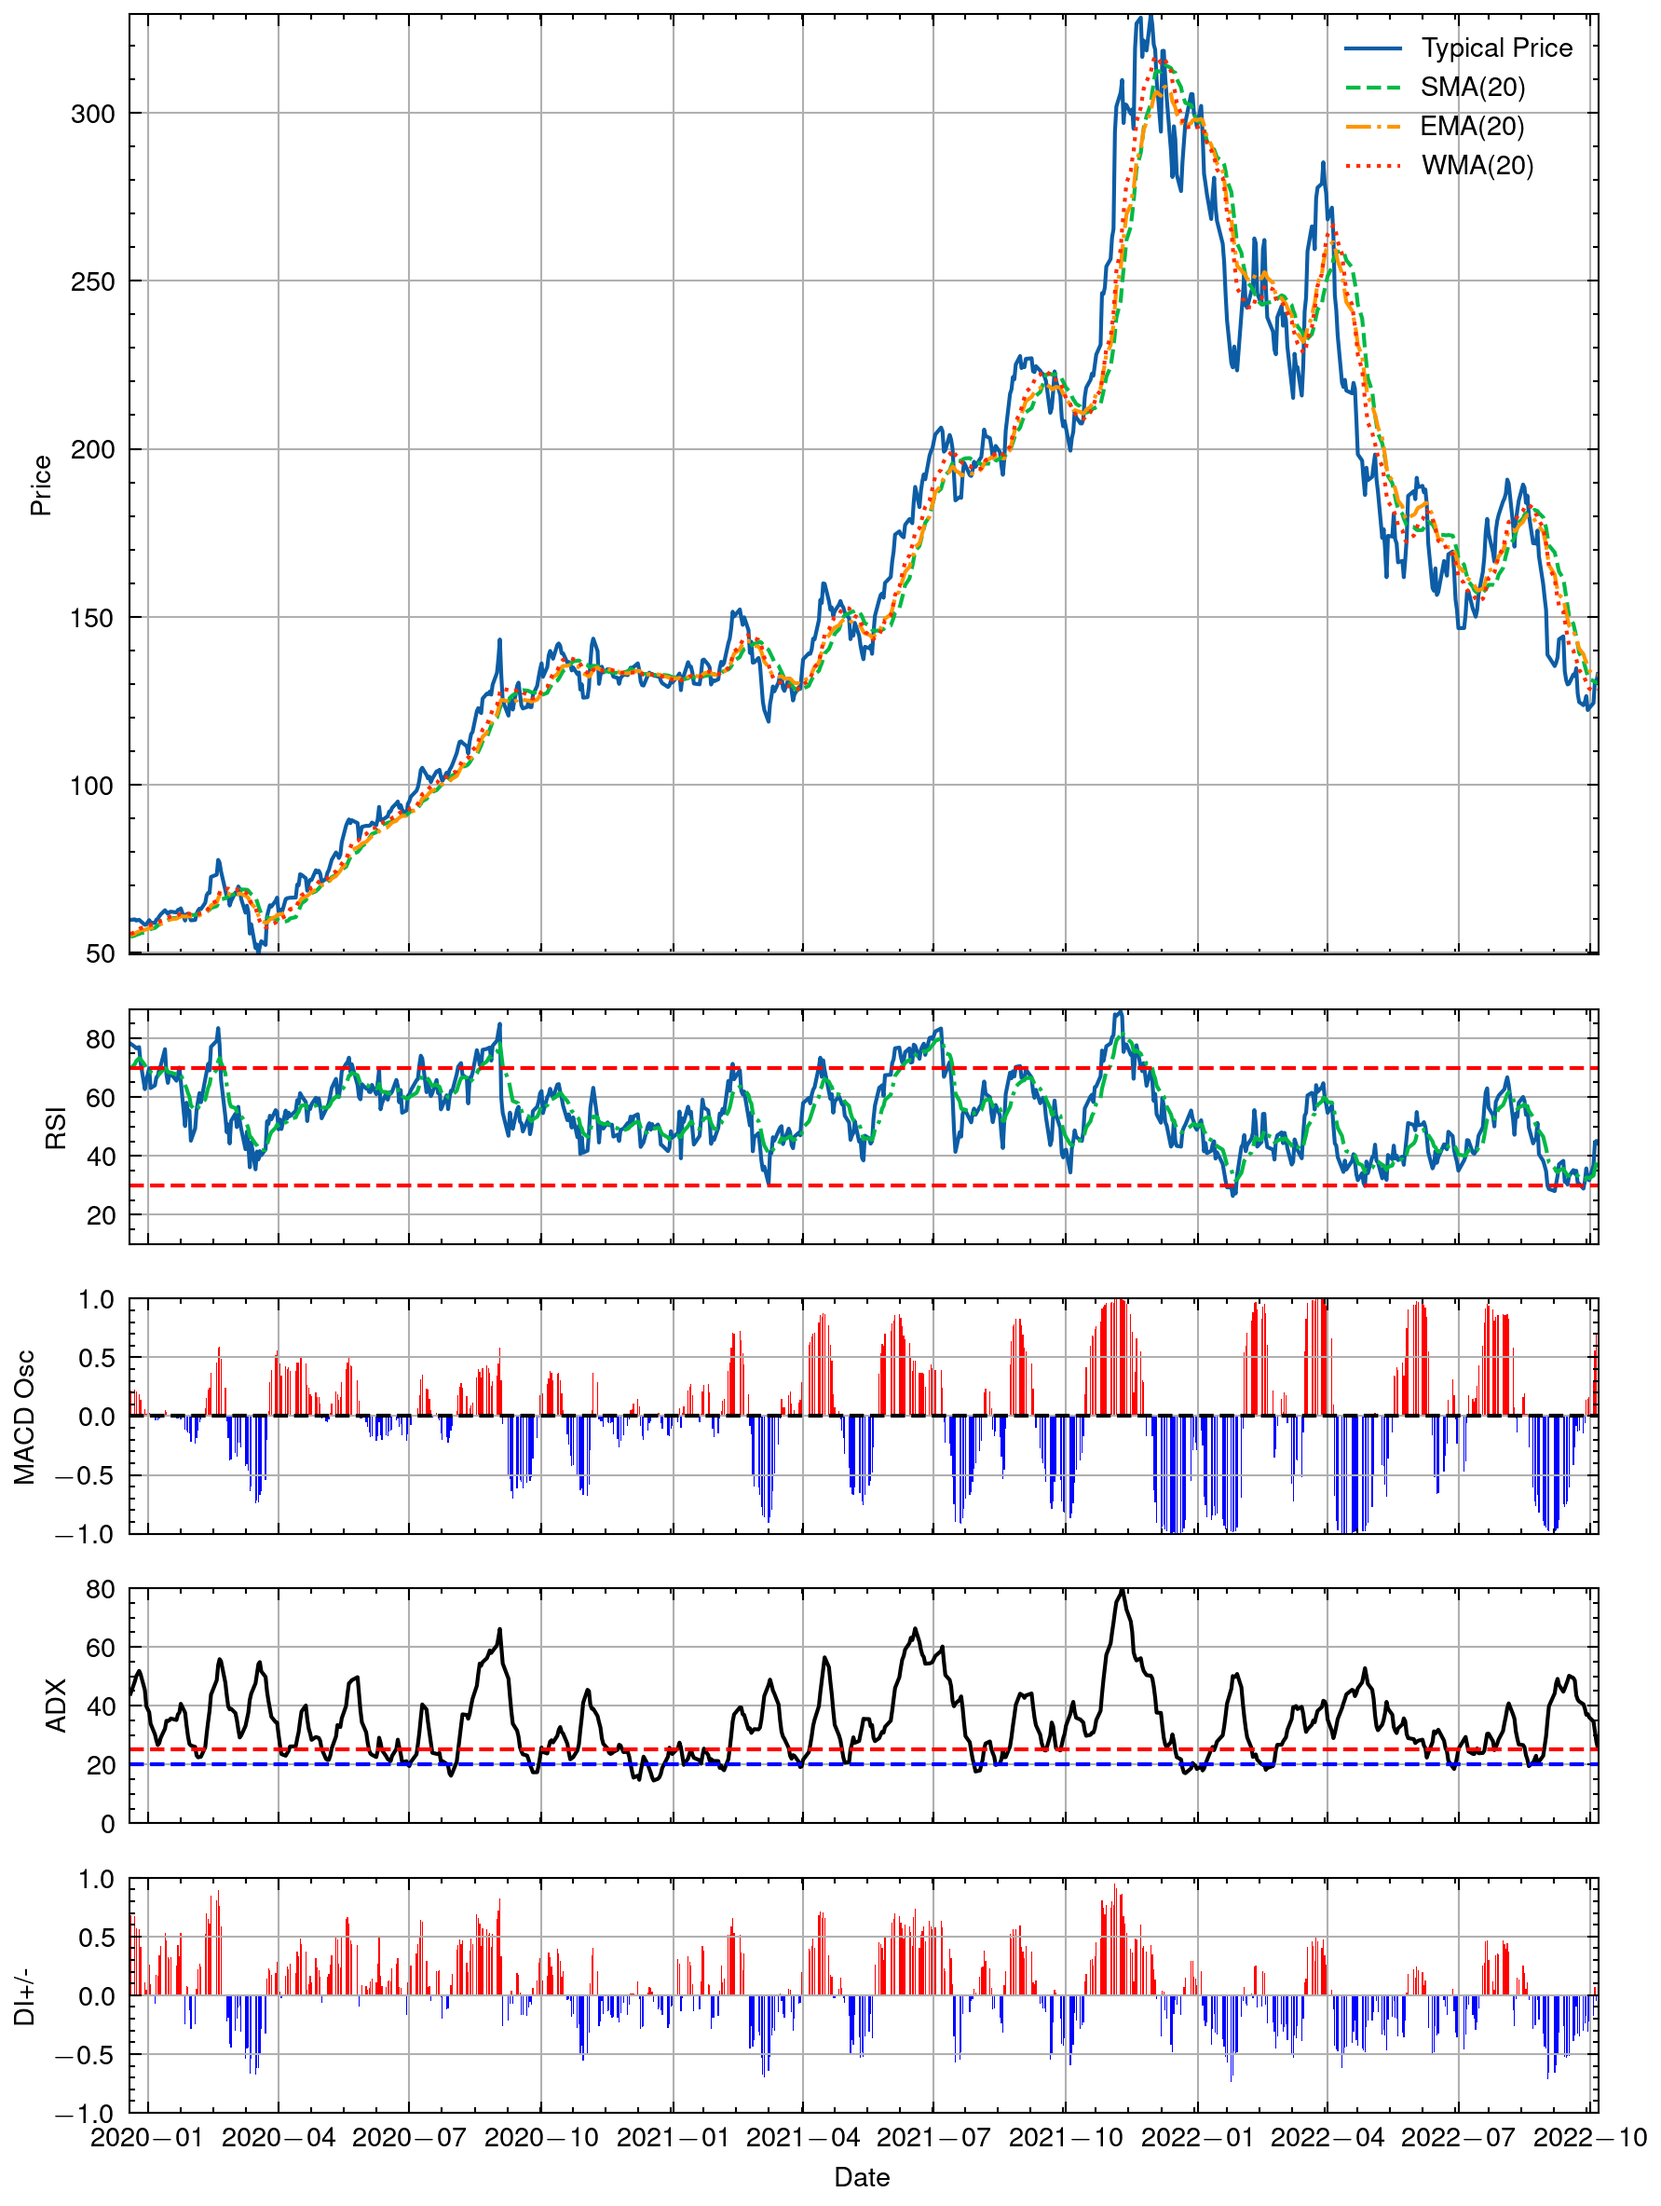
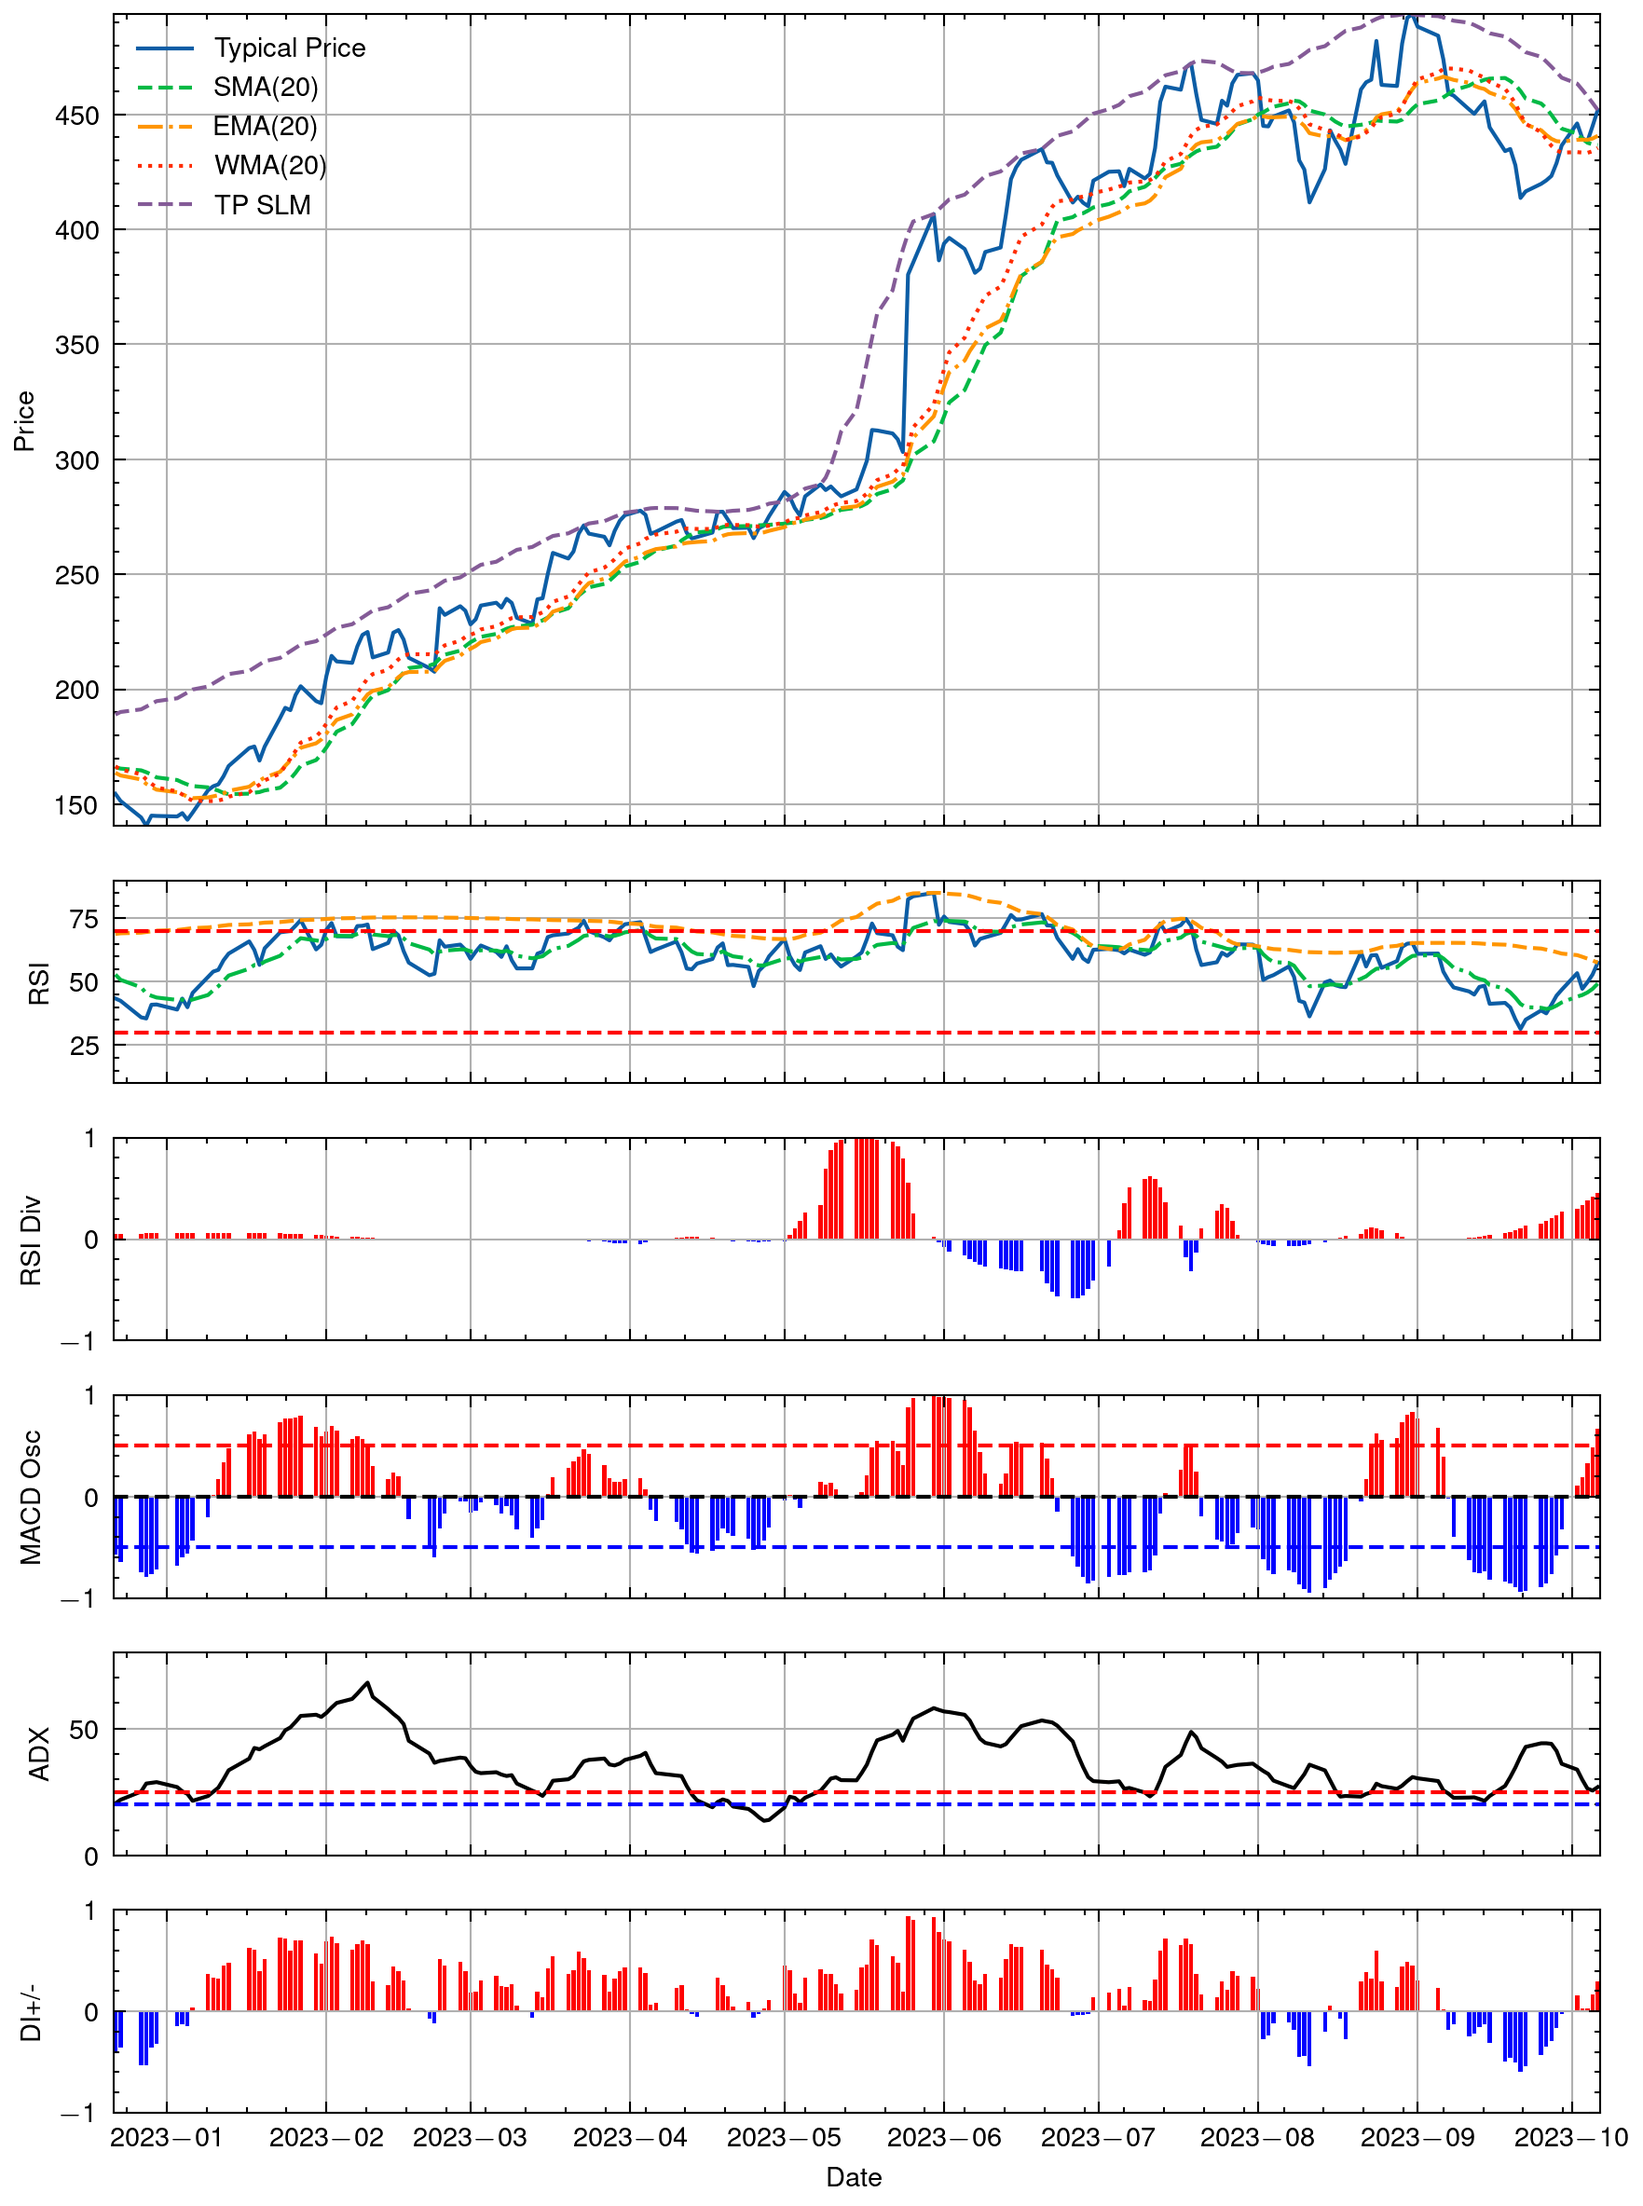
Implement Divergence

diff --git a/script/ta_plot.py b/script/ta_plot.py
@@ -17,11 +17,15 @@ df = pd.read_parquet(f'data/{symbol}.parquet')
 x = df['date'] # str
 x = pd.to_datetime(x) # datetime
 tp = df['tp']
+tp_div = df['tp_div']
+tp_slope = df['tp_slope']
 sma = df['sma']
 ema = df['ema']
 wma = df['wma']
 rsi = df['rsi']
 rsi_signal = df['rsi_signal']
+rsi_div = df['rsi_div']
+rsi_slope = df['rsi_slope']
 macd = df['macd']
 macd_signal = df['macd_signal']
 adx = df['adx']
@@ -33,12 +37,13 @@ d = df['d']
 
 # Plot
 with plt.style.context(["science", "nature"]):
-    fig, axs = plt.subplots(5, 1, figsize=(6, 8), sharex=True, gridspec_kw={'height_ratios': [4, 1, 1, 1, 1]})
+    fig, axs = plt.subplots(6, 1, figsize=(6, 8), sharex=True, gridspec_kw={'height_ratios': [4, 1, 1, 1, 1, 1]})
     axs[0].autoscale(tight=True)
     axs[0].plot(x, tp, label='Typical Price')
     axs[0].plot(x, sma, '--', label='SMA(20)')
     axs[0].plot(x, ema, '-.', label='EMA(20)')
     axs[0].plot(x, wma, ':', label='WMA(20)')
+    axs[0].plot(x, tp_div, '--', label='TP SLM')
     # Tick angle
     plt.setp(axs[0].get_xticklabels(), rotation=30, horizontalalignment='right')
     axs[0].legend()
@@ -48,6 +53,7 @@ with plt.style.context(["science", "nature"]):
     axs[1].autoscale(tight=True)
     axs[1].plot(x, rsi)
     axs[1].plot(x, rsi_signal, '-.')
+    axs[1].plot(x, rsi_div, '--')
     axs[1].axhline(y=30, color='r', linestyle='--')
     axs[1].axhline(y=70, color='r', linestyle='--')
     axs[1].set_ylabel("RSI")
@@ -55,50 +61,64 @@ with plt.style.context(["science", "nature"]):
     axs[1].grid(True)
 
     axs[2].autoscale(tight=True)
-    #axs[2].plot(x, macd)
-    #axs[2].plot(x, macd_signal, '-.')
-    axs[2].axhline(y=0, color='k', linestyle='--')
-    # Histogram for MACD
-    macd_up = np.tanh(np.array(macd - macd_signal) / np.max(macd_signal) * 10)
-    macd_up[macd_up < 0] = np.nan
-    macd_down = np.tanh(np.array(macd - macd_signal) / np.max(macd_signal) * 10)
-    macd_down[macd_down > 0] = np.nan
+    rsi_slope = np.tanh(np.array(rsi_slope) * np.array(tp_slope) / np.max(tp_slope) * 2)
+    rsi_slope_up = np.array(rsi_slope)
+    rsi_slope_up[rsi_slope_up < 0] = np.nan
+    rsi_slope_down = np.array(rsi_slope)
+    rsi_slope_down[rsi_slope_down > 0] = np.nan
+    axs[2].bar(x, rsi_slope_up, color='r', width=0.8)
+    axs[2].bar(x, rsi_slope_down, color='b', width=0.8)
     axs[2].set_ylim([-1, 1])
-    axs[2].bar(x, macd_up, color='r', width=0.8)
-    axs[2].bar(x, macd_down, color='b', width=0.8)
-    axs[2].set_ylabel("MACD Osc")
+    axs[2].set_ylabel("RSI Div")
     axs[2].grid(True)
 
     axs[3].autoscale(tight=True)
-    axs[3].plot(x, adx, 'k')
-    axs[3].axhline(y=20, color='b', linestyle='--')
-    axs[3].axhline(y=25, color='r', linestyle='--')
-    axs[3].set_ylabel("ADX")
-    axs[3].set_ylim([0, 80])
+    #axs[3].plot(x, macd)
+    #axs[3].plot(x, macd_signal, '-.')
+    axs[3].axhline(y=0, color='k', linestyle='--')
+    # Histogram for MACD
+    macd_up = np.tanh(np.array(macd - macd_signal) / np.max(macd_signal) * 7.5)
+    macd_up[macd_up < 0] = np.nan
+    macd_down = np.tanh(np.array(macd - macd_signal) / np.max(macd_signal) * 7.5)
+    macd_down[macd_down > 0] = np.nan
+    axs[3].set_ylim([-1, 1])
+    axs[3].bar(x, macd_up, color='r', width=0.8)
+    axs[3].bar(x, macd_down, color='b', width=0.8)
+    axs[3].axhline(y=0.5, color='r', linestyle='--')
+    axs[3].axhline(y=-0.5, color='b', linestyle='--')
+    axs[3].set_ylabel("MACD Osc")
     axs[3].grid(True)
 
     axs[4].autoscale(tight=True)
+    axs[4].plot(x, adx, 'k')
+    axs[4].axhline(y=20, color='b', linestyle='--')
+    axs[4].axhline(y=25, color='r', linestyle='--')
+    axs[4].set_ylabel("ADX")
+    axs[4].set_ylim([0, 80])
+    axs[4].grid(True)
+
+    axs[5].autoscale(tight=True)
     di_up = np.tanh(np.array(di_plus - di_minus) / 50)
     di_up[di_up < 0] = np.nan
     di_down = np.tanh(np.array(di_plus - di_minus) / 50)
     di_down[di_down > 0] = np.nan
-    axs[4].bar(x, di_up, color='r', width=0.8)
-    axs[4].bar(x, di_down, color='b', width=0.8)
-    axs[4].set_ylim([-1, 1])
-    axs[4].set_xlabel("Date")
-    axs[4].set_ylabel("DI+/-")
-    axs[4].grid(True)
+    axs[5].bar(x, di_up, color='r', width=0.8)
+    axs[5].bar(x, di_down, color='b', width=0.8)
+    axs[5].set_ylim([-1, 1])
+    axs[5].set_xlabel("Date")
+    axs[5].set_ylabel("DI+/-")
+    axs[5].grid(True)
 
-    #axs[5].autoscale(tight=True)
-    #axs[5].plot(x, k, label='\%K')
-    #axs[5].plot(x, d, label='\%D')
-    #axs[5].axhline(y=20, color='b', linestyle='--')
-    #axs[5].axhline(y=80, color='r', linestyle='--')
-    #axs[5].legend()
-    #axs[5].set_xlabel("Date")
-    #axs[5].set_ylabel("Stochastic")
-    #axs[5].set_ylim([0, 100])
-    #axs[5].grid(True)
+    #axs[6].autoscale(tight=True)
+    #axs[6].plot(x, k, label='\%K')
+    #axs[6].plot(x, d, label='\%D')
+    #axs[6].axhline(y=20, color='b', linestyle='--')
+    #axs[6].axhline(y=80, color='r', linestyle='--')
+    #axs[6].legend()
+    #axs[6].set_xlabel("Date")
+    #axs[6].set_ylabel("Stochastic")
+    #axs[6].set_ylim([0, 100])
+    #axs[6].grid(True)
 
     fig.tight_layout()
     fig.savefig(f'figs/{symbol}.png', dpi=300, bbox_inches='tight')

diff --git a/src/main.rs b/src/main.rs
@@ -1,6 +1,6 @@
 use peroxide::fuga::*;
 use fmp::api::HistoricalPriceFull;
-use fmp::ta::{sma, ema, wma, rsi, macd, adx_dmi, stochastic};
+use fmp::ta::{sma, ema, wma, rsi, macd, adx_dmi, stochastic, divergence};
 use std::env::args;
 
 fn main() -> Result<(), Box<dyn std::error::Error>> {
@@ -8,8 +8,8 @@ fn main() -> Result<(), Box<dyn std::error::Error>> {
     let api_key = std::fs::read_to_string(api_key_dir)?;
 
     let symbol = args().nth(1).unwrap_or("005930.KS".to_string());
-    let from = "2019-01-09"; // For cushion
-    let to = "2022-10-06";
+    let from = "2022-01-09"; // For cushion
+    let to = "2023-10-09";
 
     let mut samsung_price = HistoricalPriceFull::new(&symbol);
     //samsung_price.download_full(&api_key)?;
@@ -20,11 +20,13 @@ fn main() -> Result<(), Box<dyn std::error::Error>> {
     let high: Vec<f64> = df["high"].to_vec();
     let low: Vec<f64> = df["low"].to_vec();
     let tp = close.iter().zip(high.iter()).zip(low.iter()).map(|((c, h), l)| (c + h + l) / 3f64).collect::<Vec<f64>>();
+    let (tp_div, tp_slope) = divergence(&tp);
     let sma_ = sma(&tp, 20);
     let ema_ = ema(&tp, 20);
     let wma_ = wma(&tp, 20);
     let rsi_ = rsi(&close, 14);
     let rsi_signal = ema(&rsi_, 9);
+    let (rsi_div, rsi_slope) = divergence(&rsi_);
     let macd_ = macd(&close, 12, 26);
     let macd_signal = ema(&macd_, 9);
     let (adx_, di_plus, di_minus) = adx_dmi(&high, &low, &close, 14);
@@ -33,11 +35,13 @@ fn main() -> Result<(), Box<dyn std::error::Error>> {
     // Result
     let date = date[240..].to_vec();
     let tp = tp[240..].to_vec();
+    let (tp_div, tp_slope) = (tp_div[240..].to_vec(), tp_slope[240..].to_vec());
     let sma_ = sma_[240..].to_vec();
     let ema_ = ema_[240..].to_vec();
     let wma_ = wma_[240..].to_vec();
     let rsi_ = rsi_[240..].to_vec();
     let rsi_signal = rsi_signal[240..].to_vec();
+    let (rsi_div, rsi_slope) = (rsi_div[240..].to_vec(), rsi_slope[240..].to_vec());
     let macd_ = macd_[240..].to_vec();
     let macd_signal = macd_signal[240..].to_vec();
     let adx_ = adx_[240..].to_vec();
@@ -49,11 +53,15 @@ fn main() -> Result<(), Box<dyn std::error::Error>> {
     let mut dg = DataFrame::new(vec![]);
     dg.push("date", Series::new(date));
     dg.push("tp", Series::new(tp));
+    dg.push("tp_div", Series::new(tp_div));
+    dg.push("tp_slope", Series::new(tp_slope));
     dg.push("sma", Series::new(sma_));
     dg.push("ema", Series::new(ema_));
     dg.push("wma", Series::new(wma_));
     dg.push("rsi", Series::new(rsi_));
     dg.push("rsi_signal", Series::new(rsi_signal));
+    dg.push("rsi_div", Series::new(rsi_div));
+    dg.push("rsi_slope", Series::new(rsi_slope));
     dg.push("macd", Series::new(macd_));
     dg.push("macd_signal", Series::new(macd_signal));
     dg.push("adx", Series::new(adx_));

diff --git a/src/ta.rs b/src/ta.rs
@@ -201,3 +201,62 @@ pub fn stochastic(high: &[f64], low: &[f64], close: &[f64], period: usize, smoot
     let d = sma(&k, smooth);
     (k, d)
 }
+
+/// Divergence compute for any indicator
+/// Return: (Value, Slope)
+pub fn divergence(v: &[f64]) -> (Vec<f64>, Vec<f64>) {
+    // Find all local maxima
+    let mut maxima = vec![];
+    let mut max_idx = 0usize;
+    let mut max_val = v[0];
+    for i in 1..v.len() {
+        if v[i] > max_val {
+            max_val = v[i];
+            max_idx = i;
+        } else if v[i] < max_val {
+            if max_idx > 0 {
+                maxima.push((max_idx, max_val));
+            }
+            max_idx = 0;
+            max_val = v[i];
+        }
+    }
+
+    let (idx_f64, maxima): (Vec<f64>, Vec<f64>) = maxima.into_iter().map(|(x, y)| (x as f64, y)).unzip();
+
+    // Find all local maxima of local maxima
+    let mut maxima2 = vec![];
+    let mut max_idx = 0usize;
+    let mut max_val = maxima[0];
+    for i in 1..maxima.len() {
+        if maxima[i] > max_val {
+            max_val = maxima[i];
+            max_idx = i;
+        } else if maxima[i] < max_val {
+            if max_idx > 0 {
+                maxima2.push((max_idx, max_val));
+            }
+            max_idx = 0;
+            max_val = maxima[i];
+        }
+    }
+
+    let (mut idx_f64, mut maxima): (Vec<f64>, Vec<f64>) = maxima2.into_iter().map(|(x, y)| (idx_f64[x], y)).unzip();
+
+    // Insert first & last point if it is not included
+    if idx_f64[0] != 0f64 {
+        idx_f64.insert(0, 0f64);
+        maxima.insert(0, v[0]);
+    }
+    if idx_f64[idx_f64.len() - 1] != v.len() as f64 - 1f64 {
+        idx_f64.push(v.len() as f64 - 1f64);
+        maxima.push(v[v.len() - 1]);
+    }
+
+    // Create cubic spline of local maxima
+    let cs = cubic_hermite_spline(&idx_f64, &maxima, Akima);
+    let idx = seq(0, v.len() as u32 - 1, 1);
+    let div = cs.eval_vec(&idx.fmap(|x| x as f64));
+    let slope = cs.derivative().eval_vec(&idx.fmap(|x| x as f64));
+    (div, slope)
+}
